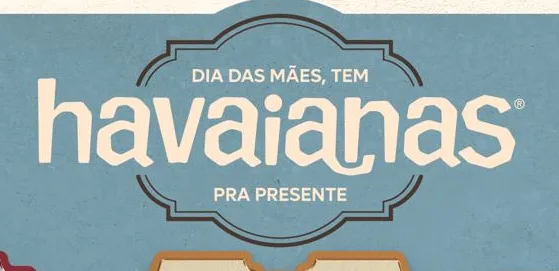
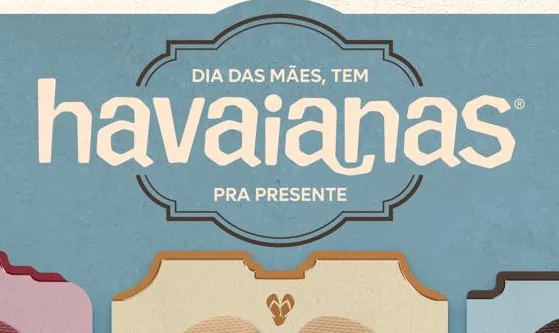
Havaianas Aura: ilha rosa

diff --git a/havaianas-aura-maes-75lab/index.html b/havaianas-aura-maes-75lab/index.html
@@ -9,7 +9,7 @@
 <meta name="robots" content="noindex">
 <link rel="preconnect" href="https://fonts.googleapis.com"><link rel="preconnect" href="https://fonts.gstatic.com" crossorigin>
 <link href="https://fonts.googleapis.com/css2?family=Big+Shoulders+Display:wght@700;900&family=Space+Grotesk:wght@400;500;600;700&family=Space+Mono:wght@400;700&display=swap" rel="stylesheet">
-<link rel="stylesheet" href="assets/deck.css"><link rel="stylesheet" href="assets/bombril.css"><link rel="stylesheet" href="assets/v2.css"><link rel="stylesheet" href="assets/havaianas.css?v=202611242117">
+<link rel="stylesheet" href="assets/deck.css"><link rel="stylesheet" href="assets/bombril.css"><link rel="stylesheet" href="assets/v2.css"><link rel="stylesheet" href="assets/havaianas.css?v=202611242120">
 </head>
 <body>
 <svg width="0" height="0" style="position:absolute" aria-hidden="true">
@@ -158,9 +158,9 @@
 <section id="ilha" class="tela s-core n" data-tema="escuro" data-titulo="Ilha" data-cap="(03) B2B alimentar">
     <div class="caixa"><div class="gr-core">
       <div class="txt-core"><span class="eyebrow anima">B2B alimentar · BA08</span><h2 class="anima">Cubos que giram, <span class="t-lime">produto que se pega.</span></h2><p class="lead anima d1">Peça central com os cubos giratórios no recorte, laterais em três camadas com a foto, pares presos direto na peça e adesivo de chão redondo.</p>
-        <div class="abas-b vers anima d2"><button data-aba="0" class="on" data-cursor="Ver"><i>01</i><b>Azul</b></button><button data-aba="1" class="" data-cursor="Ver"><i>02</i><b>Azul · 3/4</b></button><button data-aba="2" class="" data-cursor="Ver"><i>03</i><b>Cubos</b></button></div>
+        <div class="abas-b vers anima d2"><button data-aba="0" class="on" data-cursor="Ver"><i>01</i><b>Azul</b></button><button data-aba="1" class="" data-cursor="Ver"><i>02</i><b>Azul · 3/4</b></button><button data-aba="2" class="" data-cursor="Ver"><i>03</i><b>Cubos</b></button><button data-aba="3" class="" data-cursor="Ver"><i>04</i><b>Rosa</b></button><button data-aba="4" class="" data-cursor="Ver"><i>05</i><b>Rosa · 3/4</b></button></div>
         <dl class="ficha-core anima d3"><dt>Altura</dt><dd>263,5 cm no topo da peça central</dd><dt>Adesivo</dt><dd>chão, Ø 2,68 m</dd><dt>Laterais</dt><dd>3 camadas com a foto do KV</dd><dt>Produto</dt><dd>pares presos na peça, cubos giratórios</dd></dl></div>
-      <div class="paineis foto-core anima dir d1"><div data-painel="0" class="on"><figure class="amplia" data-amplia="assets/img/ilha-az-1.webp" data-legenda="Azul" data-cursor="Ampliar"><img src="assets/img/ilha-az-1.webp" alt="Azul" loading="lazy"></figure><p>De frente: peça central com a testeira, lateral com a foto e os cubos.</p></div><div data-painel="1" class=""><figure class="amplia" data-amplia="assets/img/ilha-az-2.webp" data-legenda="Azul · 3/4" data-cursor="Ampliar"><img src="assets/img/ilha-az-2.webp" alt="Azul · 3/4" loading="lazy"></figure><p>As laterais em três camadas e o adesivo de chão.</p></div><div data-painel="2" class=""><figure class="amplia" data-amplia="assets/img/ilha-az-3.webp" data-legenda="Cubos" data-cursor="Ampliar"><img src="assets/img/ilha-az-3.webp" alt="Cubos" loading="lazy"></figure><p>Os três cubos giratórios com os cards dos pares.</p></div></div>
+      <div class="paineis foto-core anima dir d1"><div data-painel="0" class="on"><figure class="amplia" data-amplia="assets/img/ilha-az-1.webp" data-legenda="Azul" data-cursor="Ampliar"><img src="assets/img/ilha-az-1.webp" alt="Azul" loading="lazy"></figure><p>De frente: peça central com a testeira, lateral com a foto e os cubos.</p></div><div data-painel="1" class=""><figure class="amplia" data-amplia="assets/img/ilha-az-2.webp" data-legenda="Azul · 3/4" data-cursor="Ampliar"><img src="assets/img/ilha-az-2.webp" alt="Azul · 3/4" loading="lazy"></figure><p>As laterais em três camadas e o adesivo de chão.</p></div><div data-painel="2" class=""><figure class="amplia" data-amplia="assets/img/ilha-az-3.webp" data-legenda="Cubos" data-cursor="Ampliar"><img src="assets/img/ilha-az-3.webp" alt="Cubos" loading="lazy"></figure><p>Os três cubos giratórios com os cards dos pares.</p></div><div data-painel="3" class=""><figure class="amplia" data-amplia="assets/img/ilha-rs-1.webp" data-legenda="Rosa" data-cursor="Ampliar"><img src="assets/img/ilha-rs-1.webp" alt="Rosa" loading="lazy"></figure><p>A ilha no caminho rosa, com o laço bordô.</p></div><div data-painel="4" class=""><figure class="amplia" data-amplia="assets/img/ilha-rs-2.webp" data-legenda="Rosa · 3/4" data-cursor="Ampliar"><img src="assets/img/ilha-rs-2.webp" alt="Rosa · 3/4" loading="lazy"></figure><p>Rosa em 3/4.</p></div></div>
     </div></div></section>
 <section id="ponta" class="tela s-core n" data-tema="escuro" data-titulo="Ponta de gôndola" data-cap="(03) B2B alimentar">
     <div class="caixa"><div class="gr-core">
